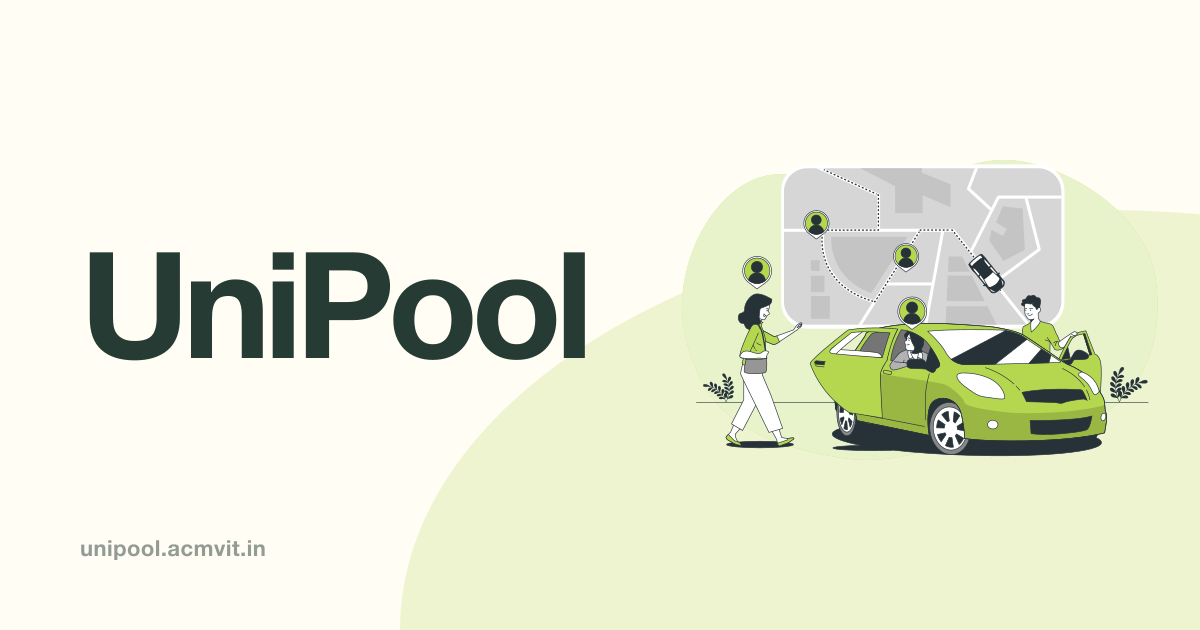
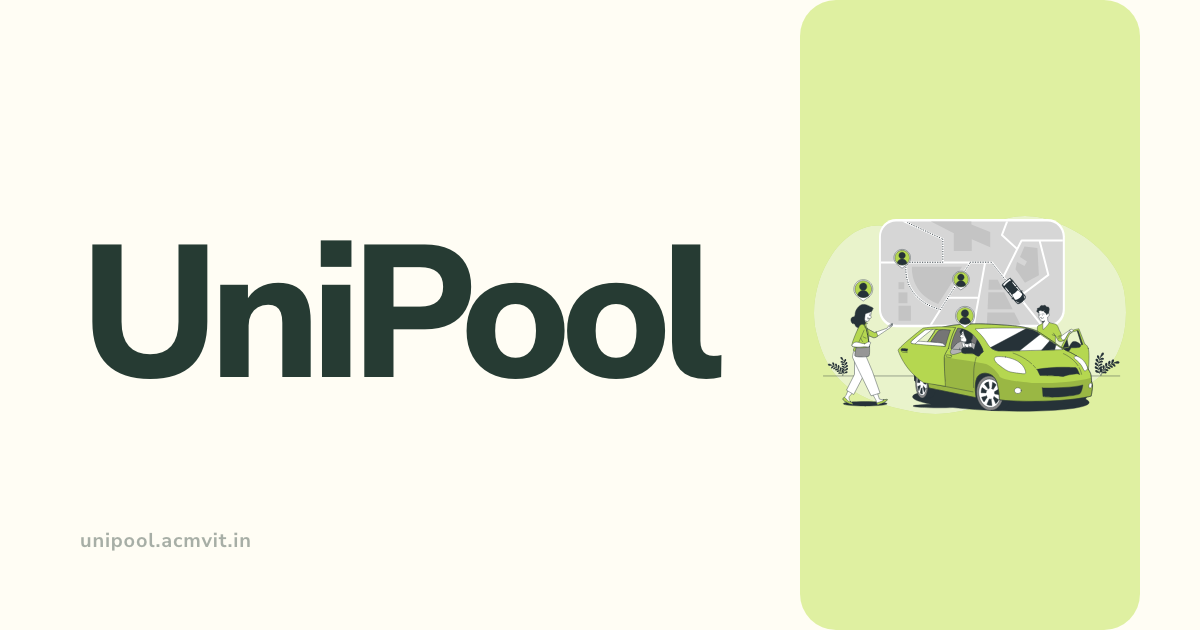
chore(og): render OG image via headless Chrome for real Nunito Sans
The previous SVG-based approach rendered the wordmark through
rsvg-convert, which doesn't have Nunito Sans installed and fell
back to a generic system sans — the OG type didn't match the
brand. Switched to a headless-Chrome render pipeline:

- New scripts/og-template.html — a 1200×630 HTML page that loads
  Nunito Sans from Google Fonts and lays out the OG with proper
  CSS. Real webfont, real letter-spacing, no font drift.
- Regenerate by running:
    "/Applications/Google Chrome.app/Contents/MacOS/Google Chrome" \
      --headless=new --disable-gpu --hide-scrollbars \
      --window-size=1200,630 \
      --screenshot=$(pwd)/public/og-image.png \
      file://$(pwd)/scripts/og-template.html

Composition is also tighter:
- Big "UniPool" wordmark in forest on the cream half (truly the
  only text — no tagline, no pill, matching the "just the brand
  name" brief).
- Carpool illustration contained inside a rounded lime tile on
  the right half, so the asset's internal background can't bleed
  onto the cream canvas (the earlier version had the asset's
  built-in blob clashing with my own halo, hence the "weird
  surrounding shape").
- Quiet "unipool.acmvit.in" watermark at the bottom-left.

Dropped the now-obsolete og-source.svg.

diff --git a/scripts/og-template.html b/scripts/og-template.html
@@ -1,0 +1,109 @@
+<!doctype html>
+<html lang="en">
+  <head>
+    <meta charset="UTF-8" />
+    <title>UniPool OG</title>
+    <link rel="preconnect" href="https://fonts.googleapis.com" />
+    <link rel="preconnect" href="https://fonts.gstatic.com" crossorigin />
+    <link
+      href="https://fonts.googleapis.com/css2?family=Nunito+Sans:opsz,wght@6..12,400;6..12,600;6..12,700;6..12,800&display=swap"
+      rel="stylesheet"
+    />
+    <style>
+      /* OG card. Two zones with a soft transition: cream left for
+         the brand wordmark, lime panel right for the illustration.
+         The illustration sits inside its own contained "frame" so
+         the asset's internal background doesn't bleed onto the
+         cream half. */
+      html, body {
+        margin: 0;
+        padding: 0;
+        width: 1200px;
+        height: 630px;
+        font-family: 'Nunito Sans', system-ui, -apple-system, sans-serif;
+        background: #fffdf4;
+        color: #263b33;
+        overflow: hidden;
+        -webkit-font-smoothing: antialiased;
+        font-feature-settings: 'ss01', 'cv01';
+      }
+      .card {
+        position: relative;
+        width: 1200px;
+        height: 630px;
+        display: flex;
+        align-items: center;
+        background: #fffdf4;
+      }
+      /* Left zone — wordmark + watermark. ~60% of the canvas so the
+         "UniPool" type has room to breathe at 168px without crowding
+         the illustration on the right. */
+      .left {
+        flex: 0 0 720px;
+        padding: 0 0 0 80px;
+        display: flex;
+        flex-direction: column;
+        justify-content: center;
+      }
+      .wordmark {
+        font-weight: 800;
+        font-size: 188px;
+        letter-spacing: -0.055em;
+        line-height: 1;
+        color: #263b33;
+        margin: 0;
+      }
+      .watermark {
+        position: absolute;
+        bottom: 56px;
+        left: 80px;
+        font-weight: 700;
+        font-size: 20px;
+        letter-spacing: 0.04em;
+        color: #263b33;
+        opacity: 0.4;
+      }
+      /* Right zone — contained illustration panel. A rounded lime
+         tile holds the carpool illustration so the asset's internal
+         background never bleeds onto the cream canvas. The tile sits
+         off the right edge of the OG by a margin so it feels like a
+         framed object, not a slabbed background. */
+      .right {
+        flex: 1;
+        height: 100%;
+        display: flex;
+        align-items: center;
+        justify-content: center;
+        padding: 60px 60px 60px 0;
+      }
+      .panel {
+        width: 100%;
+        height: 100%;
+        background: #dff0a1;
+        border-radius: 36px;
+        display: flex;
+        align-items: center;
+        justify-content: center;
+        overflow: hidden;
+      }
+      .panel img {
+        width: 92%;
+        height: auto;
+        display: block;
+      }
+    </style>
+  </head>
+  <body>
+    <div class="card">
+      <div class="left">
+        <h1 class="wordmark">UniPool</h1>
+      </div>
+      <div class="right">
+        <div class="panel">
+          <img src="../public/unipool-main-logo.svg" alt="" />
+        </div>
+      </div>
+      <p class="watermark">unipool.acmvit.in</p>
+    </div>
+  </body>
+</html>